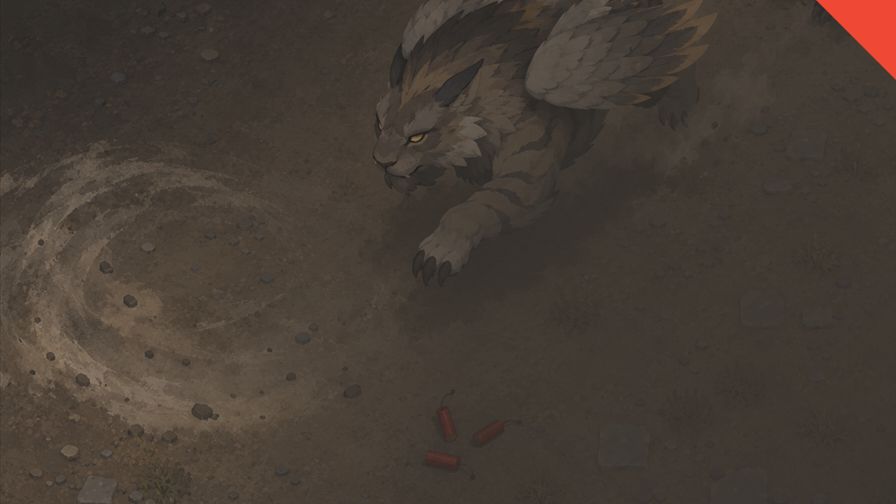
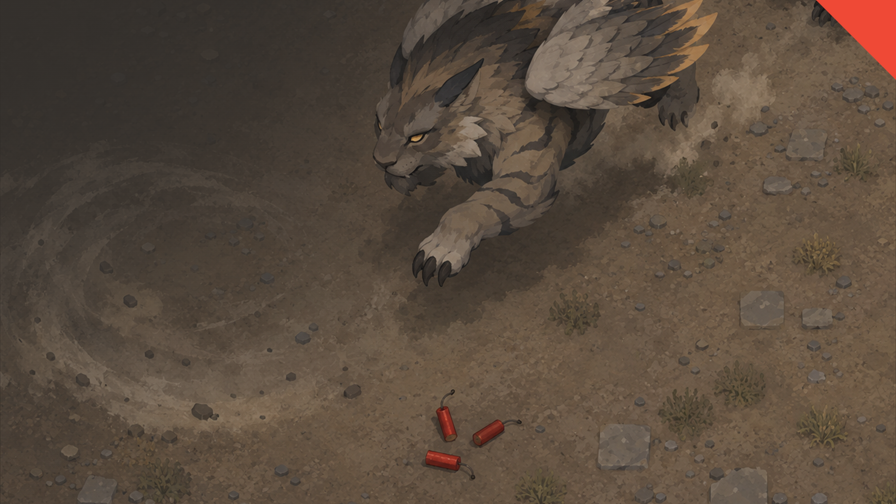
Preview: the text moves to the upper left, where it hides nothing
The composition put the copy in the lower right. Looking at the image, that
covers the three red firecrackers - the one vivid accent the palette was built
around - and its veil, anchored in the corner, dims the beast above it. Both
were on the page and neither was visible.

Rendered five placements through the repository's own page and compared them
(current, and four top-left variants). The upper left is dark, empty ground; in
it the title runs on two lines to the left of the beast's head, the beast and
the wind sweep stay lit, and the firecrackers are back. The lettering that did
not fit as a two-line title at 34 px does at 32.

  preview-layout.json  top-left, 32/24, title 32 px in 352, summary 330 wide,
                       a smaller and lighter veil (hold 22%, fade 52%)
  preview.html         summaryWidth, optional, default 430: the summary had to
                       stop short of the beast's head, and nothing let it
  PREVIEW.md           the placement paragraph, and the 46 px it still quoted

Rendered by Art/render-preview.cjs, which stops on failed contrast, a title over
two lines, text outside the frame or a file over 900 kB, and stopped on none:
title 8.9:1, suffix 6.7:1, tag 8.1:1, summary 7.0:1, badge 5.0:1; Segoe UI on
every element with no fallback; 763 KB. Inspected at 896 px and at 268.

diff --git a/Art/preview.html b/Art/preview.html
@@ -15,7 +15,7 @@ h1 > .title-link, h1 > .title-suffix { font-size: .65em; }
 h1 > .title-suffix { color: var(--inkSecondary); }
 .tag { width: max-content; margin-top: 8px; font-size: 24px; font-weight: 400; line-height: 1.1; letter-spacing: .2px; color: var(--inkSecondary); }
 .rule { width: 58px; height: 3px; background: var(--accent); margin-top: 20px; margin-bottom: 16px; }
-.summary { width: 430px; font-size: 21px; font-weight: 400; line-height: 1.45; letter-spacing: 0; color: var(--inkPrimary); }
+.summary { width: var(--summary-width, 430px); font-size: 21px; font-weight: 400; line-height: 1.45; letter-spacing: 0; color: var(--inkPrimary); }
 .badge { position: absolute; right: 0; top: 0; width: 80px; height: 80px; background: var(--accent); clip-path: polygon(0 0, 100% 0, 100% 100%); }
 .version { position: absolute; left: 869px; top: 27px; transform: translate(-50%, -50%) rotate(45deg); font-size: 26px; font-weight: 700; line-height: 1; color: var(--badgeInk); text-shadow: none; }
 </style>
@@ -43,6 +43,10 @@ window.previewReady = (async () => {
   for (const [k,v] of Object.entries({...geometry,'title-size':layout.titleSize,'title-width':layout.titleWidth})) {
     if (!Number.isFinite(v)) throw new Error('Invalid text geometry');
     style.setProperty('--'+k,v+'px');
+  }
+  if (layout.summaryWidth !== undefined) {
+    if (!Number.isFinite(layout.summaryWidth)) throw new Error('Invalid summary width');
+    style.setProperty('--summary-width', layout.summaryWidth + 'px');
   }
   style.setProperty('--shadow',layout.veilMode === 'dark' ? '0 3px 10px rgba(0,0,0,.75)' : 'none');
   const rgb = palette.veil.match(/[0-9a-f]{2}/gi).map(v=>parseInt(v,16)).join(',');

diff --git a/Art/PREVIEW.md b/Art/PREVIEW.md
@@ -7,12 +7,14 @@ background. The current delivered image is `../Mod/About/Preview.png`.
 
 Composition follows `../../STYLE_RIMWORLD.md` in the parent mod collection. `preview.html` loads `preview-palette.json` as its
 only palette and `preview-layout.json` for geometry, summary, veil settings and text position. This
-composition uses the calm lower-right ground (`textPosition: bottom-right`) so its title and summary
-do not cover the beasts in the upper half. It reads the
+composition puts the copy in the upper-left (`textPosition: top-left`), on the dark, empty ground, so that the
+winged beast, the wind sweep and the three red firecrackers are all in view. The lower-right placement this
+replaced covered the firecrackers, which are the image's one vivid accent, and its veil dimmed the beast.
+`summaryWidth` (optional, default 430) keeps the summary from running into the beast's head. It reads the
 name, suffix and highest stable supported version from the delivered `About.xml` at render time.
 All text is rasterized directly at 896 x 504, not scaled down from a larger image.
 Title hierarchy is configured by `titleConnectors` and `titleAffixes`: direct spans render
-`And` and `Renew` at 65% of 46 px, retaining weight 600. The connector retains the primary ink;
+`And` and `Renew` at 65% of the title size (32 px), retaining weight 600. The connector retains the primary ink;
 the suffix uses the secondary ink. The separate status tag is not part of that hierarchy.
 
 Run `node Art/render-preview.cjs` from the repository, with Node packages `playwright` and `sharp`
@@ -28,7 +30,7 @@ the veil and badge. Contrast is checked against every pixel in each text region,
 the four corners, using WCAG relative luminance; the badge uses its opaque rendered background.
 `preview-qa/preview-268.png` is the thumbnail used for visual inspection.
 
-Palette rationale: the veil is sampled from the calm lower-right earth. The red firecrackers
+Palette rationale: the veil is sampled from shadowed earth and anchored at the text's corner. The red firecrackers
 are amplified for the vivid accent, clearly separate from the dominant ochre family. The secondary ink
 comes from the dominant ochre family of earth and fur, lightened while retaining its warmth.
 The final colour values live only in the palette JSON; `STATUS.md` records the checks.

diff --git a/CHANGELOG.md b/CHANGELOG.md
@@ -105,8 +105,9 @@ Ported from andery233xj, Frolg, DongFang and Ninedaylongbow's
 - `Storyteller.png` went from 2192×2343 and 5.6 MB to 1160×1240, twice the 580×620 the game draws
   it at; `BeastGeneExtractor.png` from 5334×5334 to 1344×1344. The mod is 6 MB instead of 13 MB.
   Both originals are kept under `Art/textures-original/`.
-- `Preview.png` carries the mod's name, recomposed onto the calm lower-right ground so the copy no
-  longer covers the beasts; the layout, the renderer and the QA report are under `Art/`.
+- `Preview.png` carries the mod's name, in the upper-left where the ground is dark and empty: the winged
+  beast, the wind sweep and the three red firecrackers are all in view. An earlier composition put the copy in
+  the lower right and covered the firecrackers. The layout, the renderer and the QA report are under `Art/`.
 - The two showcase images were re-encoded, losslessly: neither needed the alpha channel it
   carried, and both had been written with a fixed row filter where PNG allows one per row.
 - Harmony is declared as a dependency, as it already was upstream, alongside Biotech.
